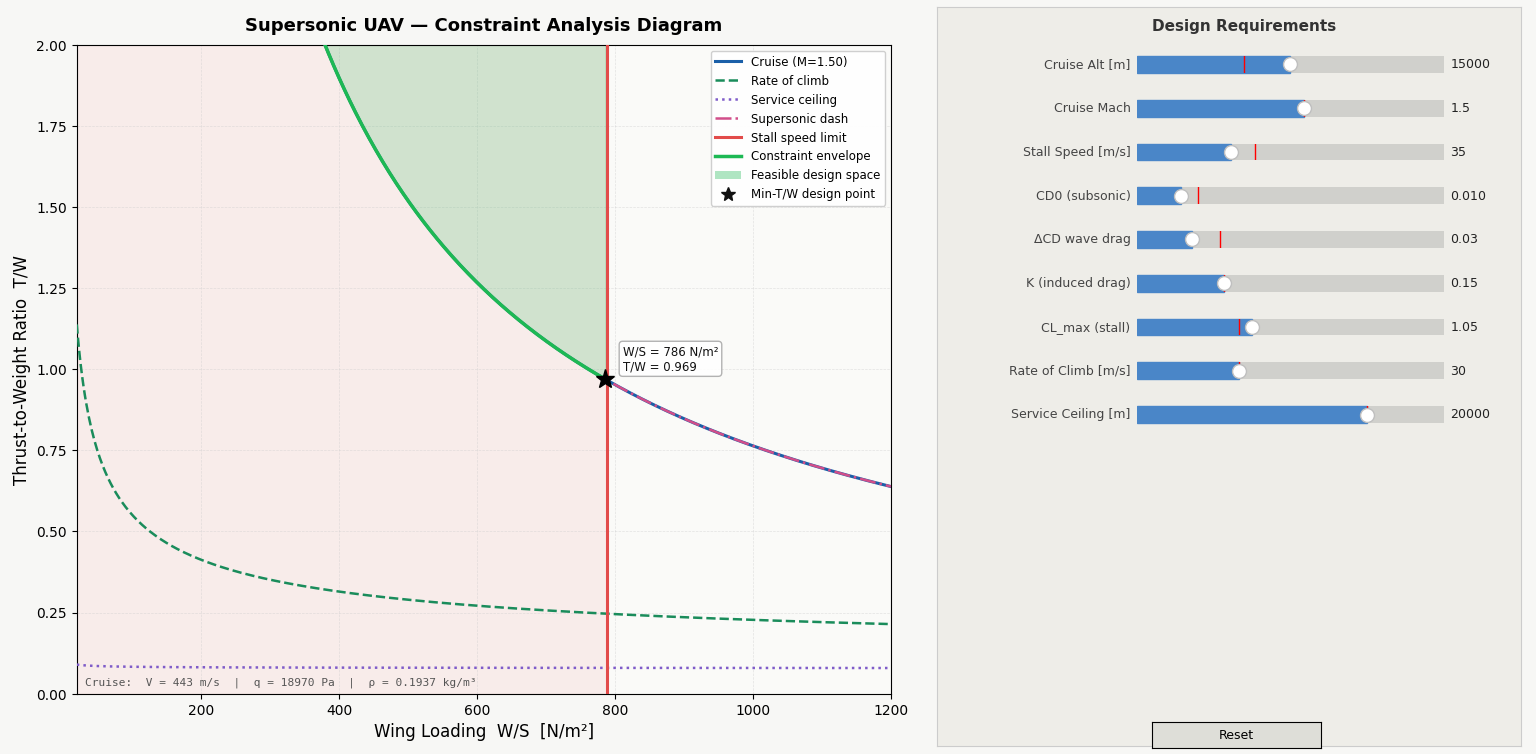
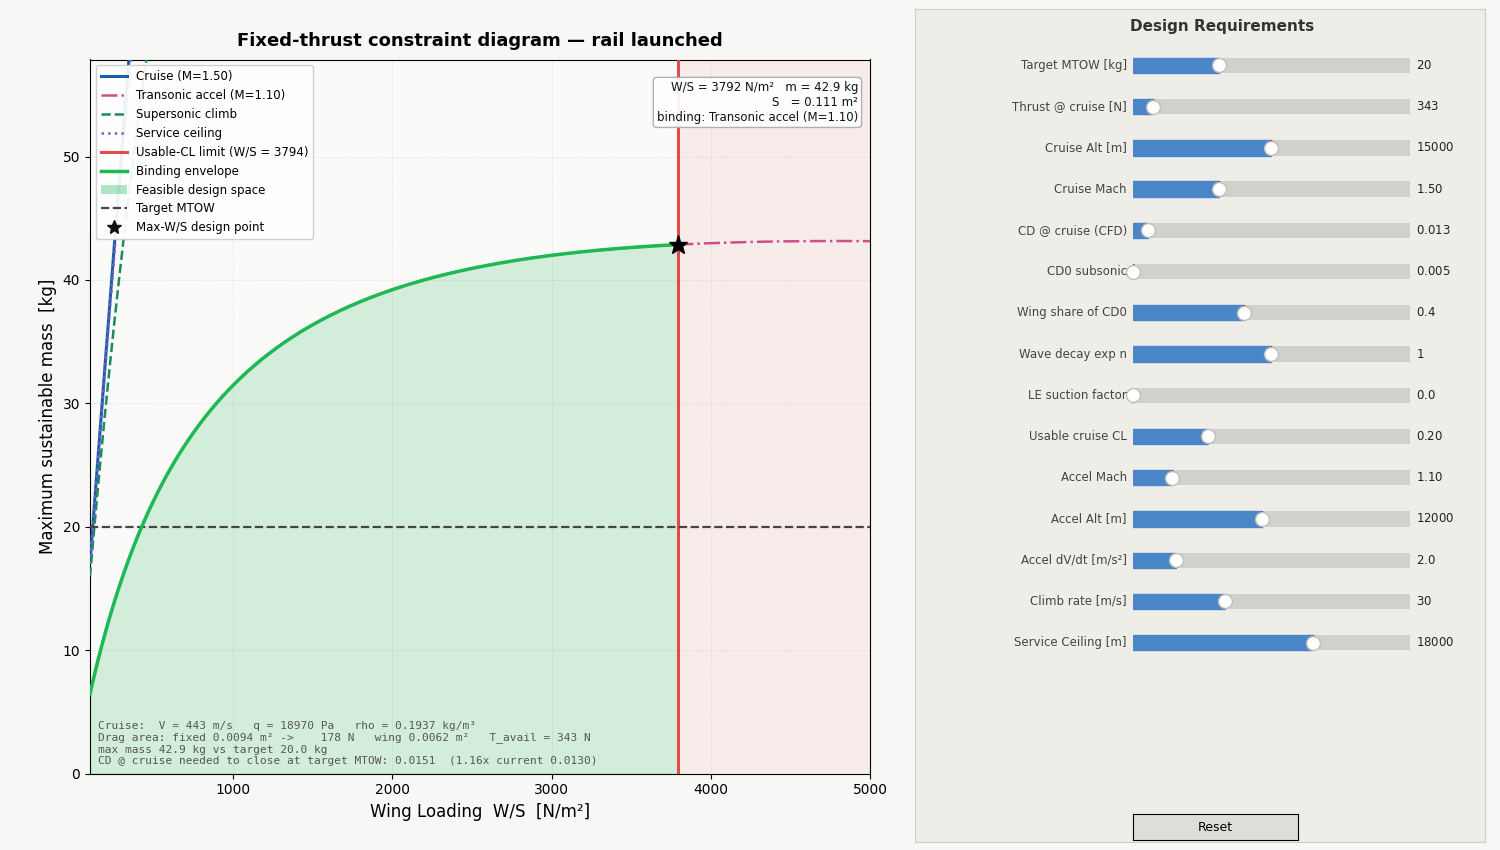
constraint analysis and weight estimate done

diff --git a/1-initial-sizing/constraint-analysis.py b/1-initial-sizing/constraint-analysis.py
@@ -5,7 +5,7 @@ from matplotlib.widgets import Slider, Button
 from matplotlib.lines import Line2D
 
 G = 9.80665
-S_REF = 0.60        # m^2, reference area the CFD Cd is normalised on
+S_REF = 1.20        # m^2, reference area the CFD Cd is normalised on (full wing, design_baseline)
 K_SUB = 0.15        # subsonic induced-drag factor, 1/(pi*AR*e)
 BETA_FLOOR = 0.4583 # beta at M = 1.10; linear theory is invalid closer to M = 1
 M_DD, M_PEAK = 0.95, 1.10
@@ -126,12 +126,12 @@ def get_style(label):
     return {"color": "#666666", "ls": "-", "lw": 1.5}
 
 DEFAULTS = dict(
-    MTOW      = 18.7,     # kg   -- target, drawn as a line only
-    T_ref     = 344.0,    # N    -- thrust at the cruise condition
+    MTOW      = 20.0,     # kg   -- target, drawn as a line only
+    T_ref     = 343.0,    # N    -- thrust at the cruise condition
     alt_cr    = 15000,    # m    -- matches the CFD design point
     mach      = 1.50,
-    cd_ref    = 0.11628,  # measured: 1331.15 N / (19080 Pa * 0.60 m^2)
-    cd0_sub   = 0.012,
+    cd_ref    = 0.01278,  # design_baseline: 290.85 N / (18971 Pa * 1.20 m^2)
+    cd0_sub   = 0.0053,   # design_baseline viscous drag only: 121.27 N / (18971 Pa * 1.20 m^2)
     wing_share= 0.40,     # fraction of zero-lift drag that scales with wing area
     wave_n    = 1.00,     # transonic pinch severity; n=1 gives a 2.4x peak
     suction   = 0.00,     # 0 = supersonic LE (K = beta/4), 0.6 = subsonic LE
@@ -165,7 +165,7 @@ for sp in panel_bg.spines.values():
 
 SLIDERS_DEF = [
     ("Target MTOW [kg]",    "MTOW",      2,     60,     0.1,   ),
-    ("Thrust @ cruise [N]", "T_ref",     50,    4000,   10,    ),
+    ("Thrust @ cruise [N]", "T_ref",     50,    4000,   1,     ),
     ("Cruise Alt [m]",      "alt_cr",    5000,  25000,  500,   ),
     ("Cruise Mach",         "mach",      1.05,  2.50,   0.05,  ),
     ("CD @ cruise (CFD)",   "cd_ref",    0.005, 0.150,  0.001, ),

diff --git a/1-initial-sizing/weight-estimate.py b/1-initial-sizing/weight-estimate.py
@@ -3,7 +3,7 @@ import matplotlib.pyplot as plt
 from matplotlib.widgets import Slider
 
 # Inputs
-MTOW = 18.7              # Maximum Takeoff Weight (kg)
+MTOW = 20.0              # Maximum Takeoff Weight (kg)
 ENGINE_WEIGHT = 4.38     # Engine weight (kg)
 FUEL_FLOW = 0.00615      # Fuel flow rate (kg/s)
 U_CRUISE = 442.6         # Cruise speed (m/s) -- M 1.5 at 15,000 m
